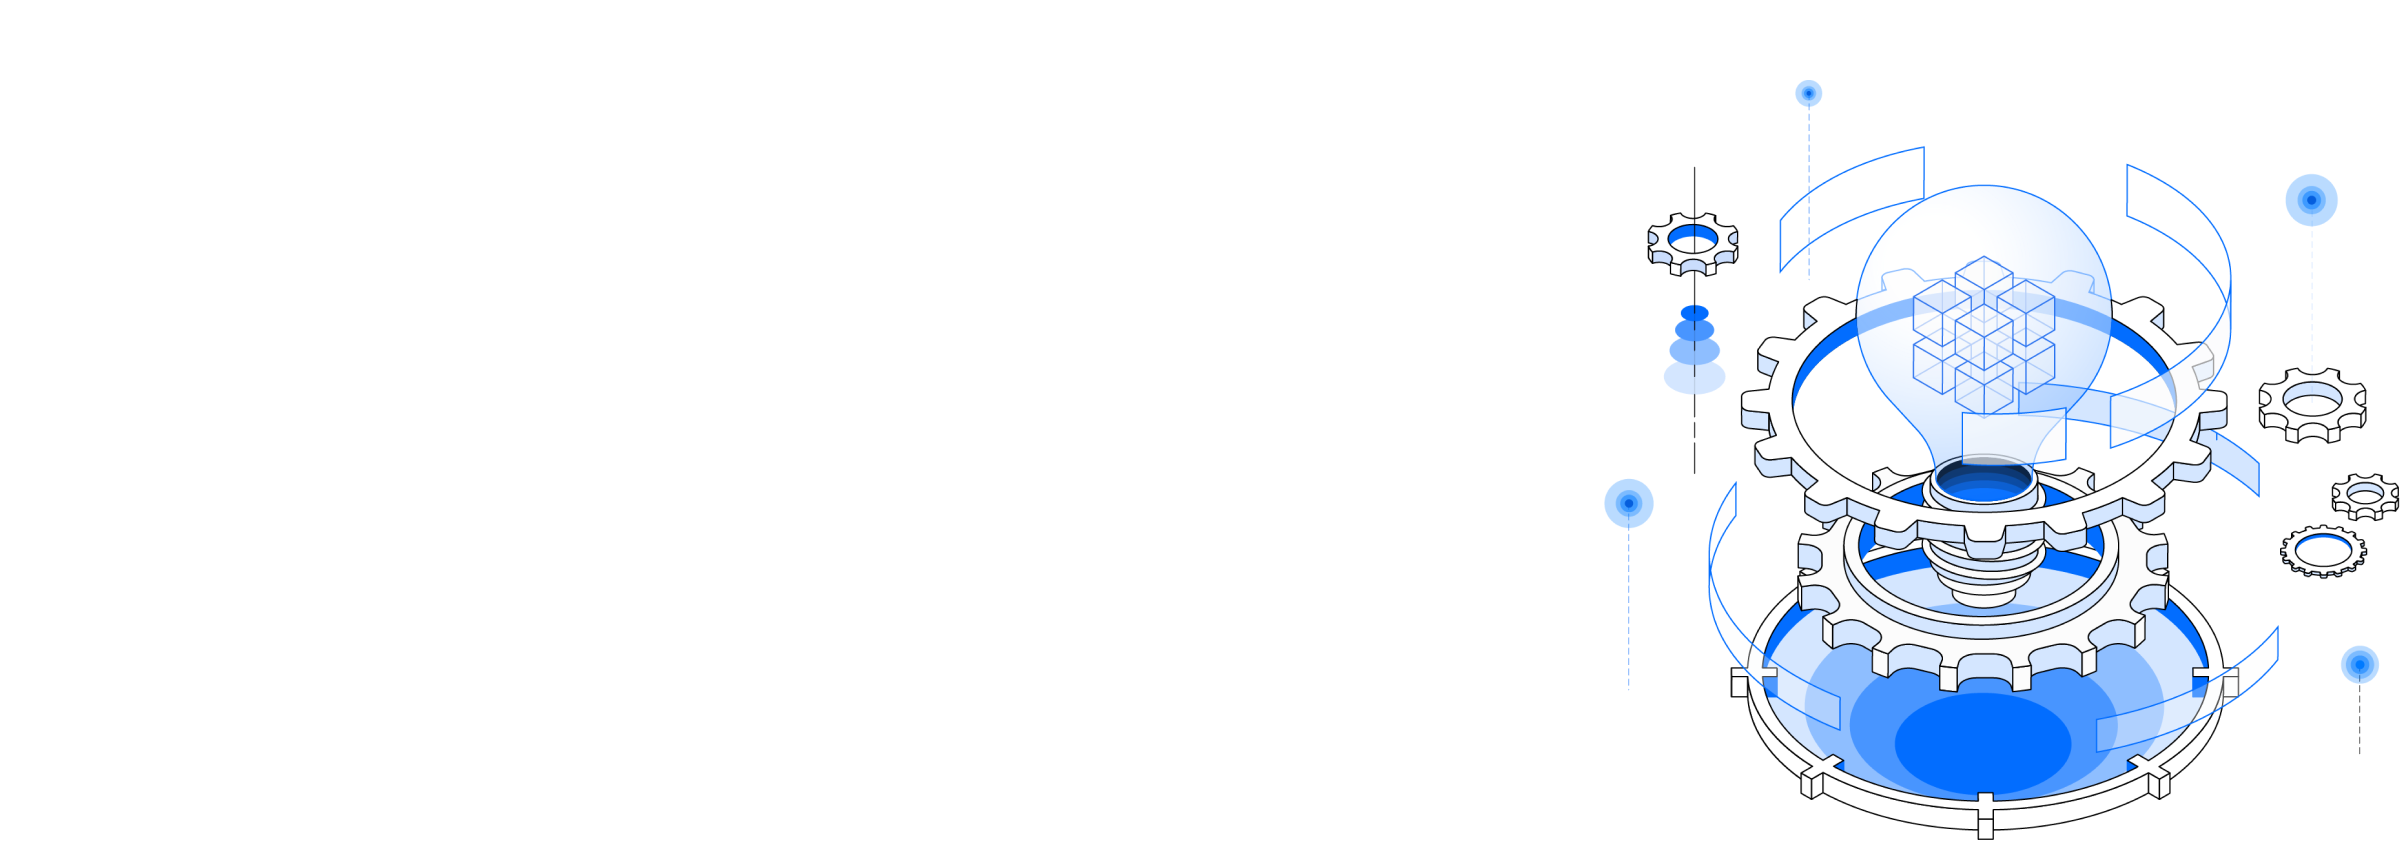
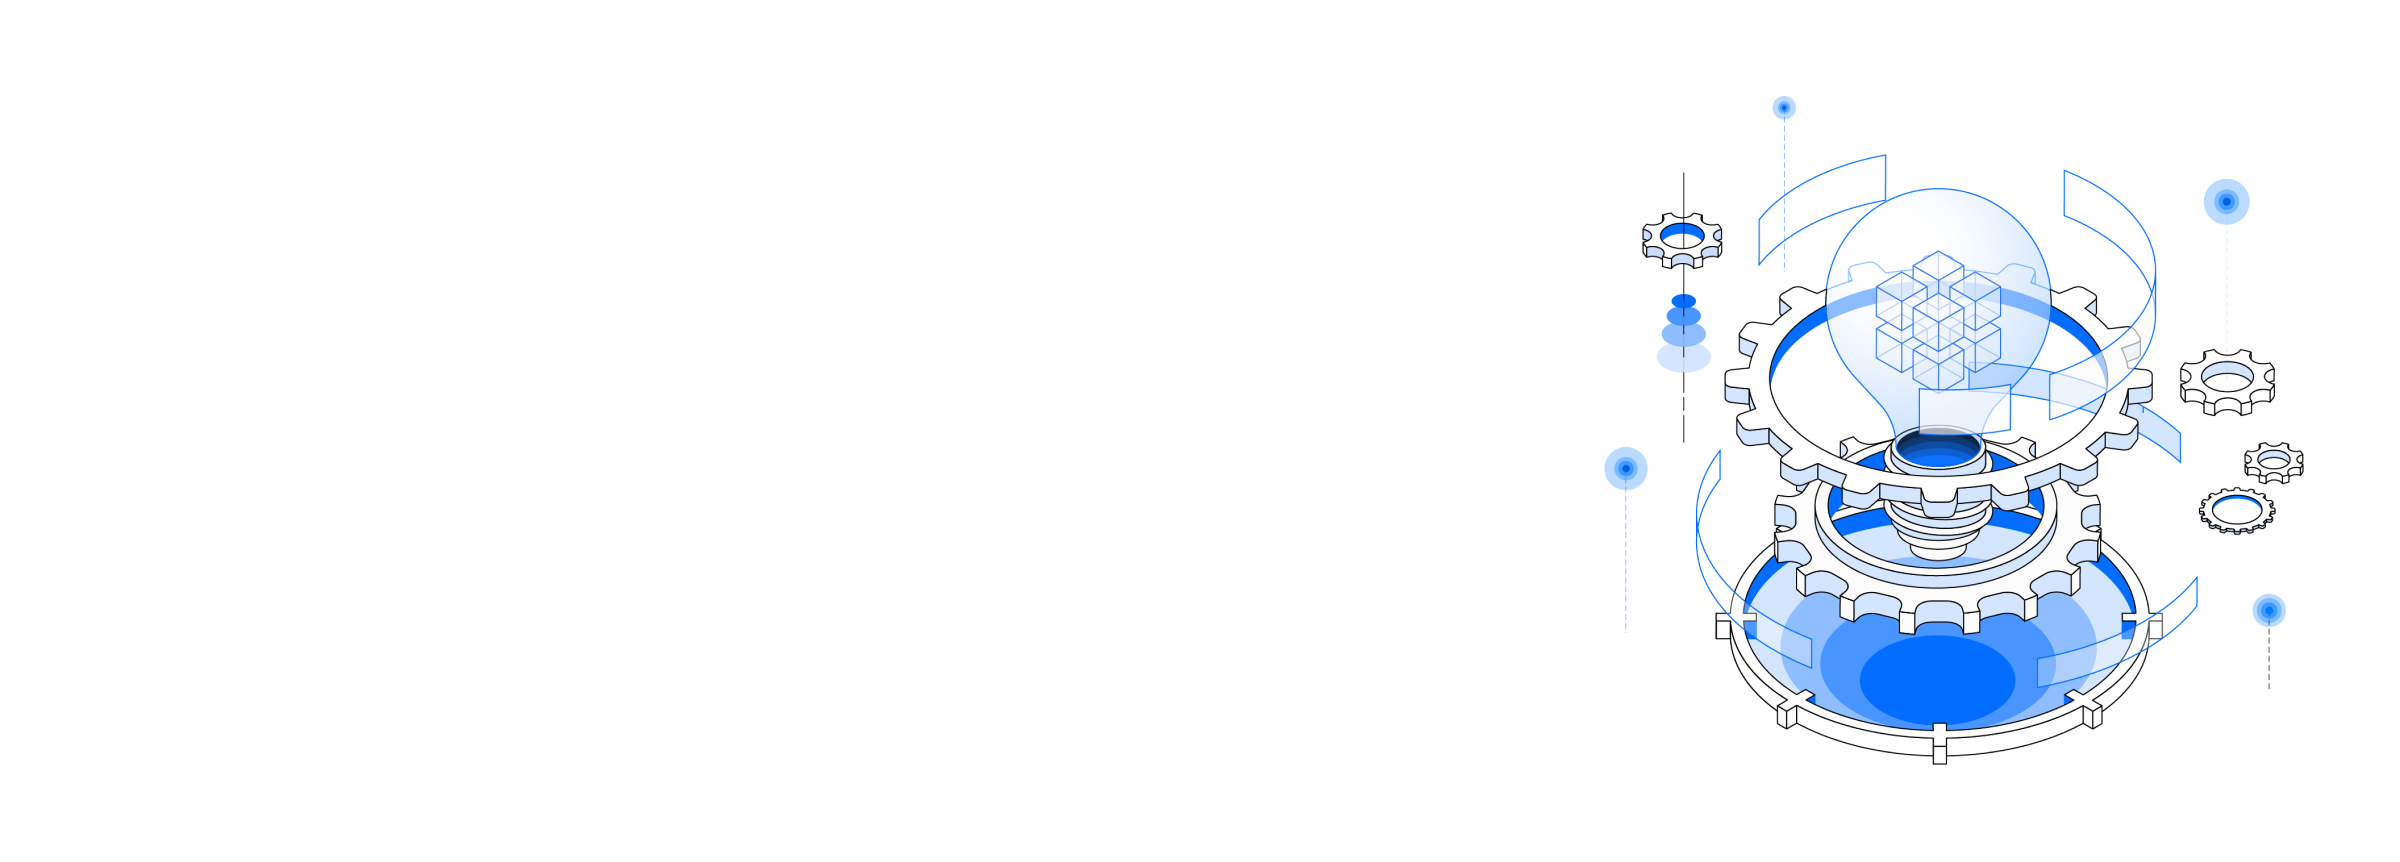
feat: 图片质量为80

diff --git a/pages/solution/constructionScheme.vue b/pages/solution/constructionScheme.vue
@@ -1,6 +1,6 @@
 <script setup>
 useSeoMeta({
-  title: '建设方案',
+  title: 'CDSL-YAK：企业安全建设解决方案',
   description: '以YAK语言为核心，聚焦网络安全底层，致力于安全融合，助力企业网络安全体系建设。',
 })
 </script>
@@ -10,10 +10,10 @@ useSeoMeta({
     <!-- 建设方案 banner -->
     <div class="relative h-[560px] bg-[#DEEEFD]">
       <div class="bottom-left-bg absolute left-[0] top-[0]">
-        <NuxtImg src="/Images/light-bg-left.png" alt="" class="h-[560px]" />
+        <NuxtImg src="/Images/light-bg-left.png" class="h-[560px]" />
       </div>
       <div class="bottom-right-bg absolute right-[0] top-[0]">
-        <NuxtImg src="/Images/light-bg-right.png" alt="" class="h-[560px]" />
+        <NuxtImg src="/Images/light-bg-right.png" class="h-[560px]" />
       </div>
       <div
         class="constructionScheme-banner-cont relative wjaq-container mx-auto h-[100%] flex justify-center items-center">
@@ -151,11 +151,11 @@ useSeoMeta({
       <!-- 实现企业安全工具的统一管理 -->
       <div class="flex justify-between items-center px-[10px] mb-[195px]">
         <div data-aos="fade-right">
-          <NuxtImg src="/Images/constructionScheme-tools.png" alt="" class="aqgj-img h-[314px]" />
+          <NuxtImg src="/Images/constructionScheme-tools.png" class="aqgj-img h-[314px]" />
         </div>
         <div data-aos="fade-left" class="w-[565px]">
           <div class="text-[32px] font-bold-600 mb-[16px]">实现企业安全工具的统一管理</div>
-          <div class="color-[#646363] text-[18px] mb-[38px] leading-[32px]">构建企业渗透测试全流程工具并进行统一管理，工具原生协同，迅速拉平企业内部安全人员的 “硬件”
+          <div class="color-[#646363] text-[18px] mb-[38px] leading-[30px]">构建企业渗透测试全流程工具并进行统一管理，工具原生协同，迅速拉平企业内部安全人员的 “硬件”
             水平。</div>
           <div class="mb-[50px]">
             <div class="text-[18px] font-bold-600 mb-[15px]">全流程工具包括</div>
@@ -228,17 +228,17 @@ useSeoMeta({
           </div>
         </div>
         <div data-aos="fade-left">
-          <NuxtImg src="/Images/constructionScheme-xiezuo.png" alt="" class="aqtdgl-img h-[408px]" />
+          <NuxtImg src="/Images/constructionScheme-xiezuo.png" class="aqtdgl-img h-[408px]" />
         </div>
       </div>
       <!-- 针对新漏洞的快速响应 -->
       <div class="flex justify-between items-center px-[10px] mb-[195px]">
         <div data-aos="fade-right">
-          <NuxtImg src="/Images/constructionScheme-bugxy.png" alt="" class="ldksxy-img h-[470px]" />
+          <NuxtImg src="/Images/constructionScheme-bugxy.png" class="ldksxy-img h-[470px]" />
         </div>
         <div data-aos="fade-left" class="w-[450px]">
           <div class="text-[32px] font-bold-600 mb-[16px]">针对新漏洞的快速响应</div>
-          <div class="color-[#646363] text-[18px] mb-[38px] leading-[32px]">针对网络空间新发现的漏洞，快速提供针对性的检测插件，按照影响程度进行分级响应。</div>
+          <div class="color-[#646363] text-[18px] mb-[38px] leading-[30px]">针对网络空间新发现的漏洞，快速提供针对性的检测插件，按照影响程度进行分级响应。</div>
           <div class="text-[16px]">
             <div class="flex items-center mb-[25px]">
               <svg class="w-[30px] h-[30px]" xmlns="http://www.w3.org/2000/svg" viewBox="0 0 30 30" fill="none">
@@ -271,22 +271,25 @@ useSeoMeta({
       <div class="flex justify-between items-center px-[10px] mb-[195px]">
         <div data-aos="fade-right" class="w-[510px]">
           <div class="text-[32px] font-bold-600 mb-[16px]">Yakit 产品部署方案</div>
-          <div class="color-[#646363] text-[18px] mb-[38px] leading-[32px]">基于 Yaklang 的低代码平台，融合“图灵完备”低代码 +
+          <div class="color-[#646363] text-[18px] mb-[38px] leading-[30px]">基于 Yaklang 的低代码平台，融合“图灵完备”低代码 +
             安全体系，针对企业部署需求提供不同的产品部署解决方案，极致降低安全运营成本。</div>
           <div class="mb-[50px]">
             <div class="text-[18px] font-bold-600 mb-[15px]">分布式引擎 SaaS 化部署</div>
             <div class="text-[16px] color-[#0070FF]">
               <div class="flex items-center mb-[10px]">
-                <svg class="w-[6px] h-[6px]" xmlns="http://www.w3.org/2000/svg" viewBox="0 0 6 6" fill="none">
-                  <circle cx="3" cy="3" r="2.5" stroke="#0070FF" />
-                </svg>
-                <span class="ml-[5px]">针对公网业务系统可以直接注册账号使用，用户无需购买，安装或维护任何软、硬件。</span>
+                <span class="leading-[30px]">
+                  <svg class="w-[6px] h-[6px] mr-[5px] mb-[2px]" xmlns="http://www.w3.org/2000/svg" viewBox="0 0 6 6"
+                    fill="none">
+                    <circle cx="3" cy="3" r="2.5" stroke="#0070FF" />
+                  </svg>
+                  针对公网业务系统可以直接注册账号使用，用户无需购买，安装或维护任何软、硬件。
+                </span>
               </div>
               <div class="flex items-center">
-                <svg class="w-[6px] h-[6px]" xmlns="http://www.w3.org/2000/svg" viewBox="0 0 6 6" fill="none">
-                  <circle cx="3" cy="3" r="2.5" stroke="#0070FF" />
-                </svg>
-                <span class="ml-[5px]">分布式调度 Yaklang 引擎，快速实现组织内任务的分发和管理。</span>
+                <span class="leading-[30px]"><svg class="w-[6px] h-[6px] mr-[5px] mb-[2px]"
+                    xmlns="http://www.w3.org/2000/svg" viewBox="0 0 6 6" fill="none">
+                    <circle cx="3" cy="3" r="2.5" stroke="#0070FF" />
+                  </svg>分布式调度 Yaklang 引擎，快速实现组织内任务的分发和管理。</span>
               </div>
             </div>
           </div>
@@ -294,39 +297,39 @@ useSeoMeta({
             <div class="text-[18px] font-bold-600 mb-[15px]">私有化部署</div>
             <div class="text-[16px] color-[#0070FF]">
               <div class="flex items-center mb-[10px]">
-                <svg class="w-[6px] h-[6px]" xmlns="http://www.w3.org/2000/svg" viewBox="0 0 6 6" fill="none">
-                  <circle cx="3" cy="3" r="2.5" stroke="#0070FF" />
-                </svg>
-                <span class="ml-[5px]">针对内网业务系统可以在内网直接部署 Yakit 服务器，配置安装后即可上线使用。</span>
+                <span class="leading-[30px]"><svg class="w-[6px] h-[6px] mr-[5px] mb-[2px]"
+                    xmlns="http://www.w3.org/2000/svg" viewBox="0 0 6 6" fill="none">
+                    <circle cx="3" cy="3" r="2.5" stroke="#0070FF" />
+                  </svg>针对内网业务系统可以在内网直接部署 Yakit 服务器，配置安装后即可上线使用。</span>
               </div>
               <div class="flex items-center">
-                <svg class="w-[6px] h-[6px]" xmlns="http://www.w3.org/2000/svg" viewBox="0 0 6 6" fill="none">
-                  <circle cx="3" cy="3" r="2.5" stroke="#0070FF" />
-                </svg>
-                <span class="ml-[5px]">持续“快速灵活低成本”挂载更多低代码服务和应用。</span>
+                <span><svg class="w-[6px] h-[6px] mr-[5px] mb-[2px]" xmlns="http://www.w3.org/2000/svg" viewBox="0 0 6 6"
+                    fill="none">
+                    <circle cx="3" cy="3" r="2.5" stroke="#0070FF" />
+                  </svg>持续“快速灵活低成本”挂载更多低代码服务和应用。</span>
               </div>
             </div>
           </div>
         </div>
         <div data-aos="fade-left">
-          <NuxtImg src="/Images/constructionScheme-bushu.png" alt="" class="bsfa-img h-[452px]" />
+          <NuxtImg src="/Images/constructionScheme-bushu.png" class="bsfa-img h-[452px]" />
         </div>
       </div>
       <!-- 企业专属定制化服务和合作 -->
       <div class="flex justify-between items-center px-[10px] mb-[195px]">
         <div data-aos="fade-right">
-          <NuxtImg src="/Images/constructionScheme-dz.png" alt="" class="dzfu-img w-[460px]" />
+          <NuxtImg src="/Images/constructionScheme-dz.png" class="dzfu-img w-[460px]" />
         </div>
         <div data-aos="fade-left" class="w-[460px]">
           <div class="text-[32px] font-bold-600 mb-[16px]">企业专属定制化服务和合作</div>
-          <div class="color-[#646363] text-[18px] mb-[38px] leading-[32px]">针对企业级用户的个性化定制需求，打造贴合企业业务真实场景的服务方案。</div>
+          <div class="color-[#646363] text-[18px] mb-[38px] leading-[30px]">针对企业级用户的个性化定制需求，打造贴合企业业务真实场景的服务方案。</div>
           <div class="mb-[50px]">
             <div class="text-[18px] font-bold mb-[15px]">定制化服务</div>
-            <div class="text-[16px] color-[#999EA8] leading-[32px]">如果您的安全团队在日常检测工作中有其他难题或者需求，我们可以提供定制服务。</div>
+            <div class="text-[16px] color-[#999EA8] leading-[30px]">如果您的安全团队在日常检测工作中有其他难题或者需求，我们可以提供定制服务。</div>
           </div>
           <div class="mb-[50px]">
             <div class="text-[18px] font-bold mb-[15px]">企业合作</div>
-            <div class="text-[16px] color-[#999EA8] leading-[32px]">如果您的团队有基于 Yak 的课题工程转化或者科研课题探讨的想法，欢迎<span
+            <div class="text-[16px] color-[#999EA8] leading-[30px]">如果您的团队有基于 Yak 的课题工程转化或者科研课题探讨的想法，欢迎<span
                 class="color-[#0070FF]">联系我们</span>。</div>
           </div>
         </div>
@@ -569,10 +572,10 @@ useSeoMeta({
         </div>
       </div>
       <div class="absolute top-[0] left-[0]">
-        <NuxtImg src="/Images/constructionScheme-l-circle.png" alt="" class="w-[418px]" />
+        <NuxtImg src="/Images/constructionScheme-l-circle.png" class="w-[418px]" />
       </div>
       <div class="absolute bottom-[0] right-[0]">
-        <NuxtImg src="/Images/constructionScheme-r-circle.png" alt="" class="w-[418px]" />
+        <NuxtImg src="/Images/constructionScheme-r-circle.png" class="w-[418px]" />
       </div>
     </div>
   </div>

diff --git a/pages/safetyProduct/xiaozhi.vue b/pages/safetyProduct/xiaozhi.vue
@@ -16,10 +16,10 @@ const coreTechnologyList = ref([
     <!-- 小智 banner -->
     <div class="relative h-[560px] bg-[#DEEEFD]">
       <div class="bottom-left-bg absolute left-[0] top-[0]">
-        <NuxtImg src="/Images/light-bg-left.png" alt="" class="h-[560px]" />
+        <NuxtImg src="/Images/light-bg-left.png" class="h-[560px]" />
       </div>
       <div class="bottom-right-bg absolute right-[0] top-[0]">
-        <NuxtImg src="/Images/light-bg-right.png" alt="" class="h-[560px]" />
+        <NuxtImg src="/Images/light-bg-right.png" class="h-[560px]" />
       </div>
       <div class="xiaozhi-banner-cont relative wjaq-container mx-auto h-[100%] flex justify-center items-center">
         <div class="text-center">
@@ -157,13 +157,13 @@ const coreTechnologyList = ref([
             <div class="text-[25px] text-center font-bold-600 mb-[20px]">网络场景信息的智能认知</div>
             <div class="text-[16px] mb-[110px] color-[#646363] leading-[35px]">
               基于漏洞情报知识图谱，对网络场景中的各种信息元素进行统一管理，并运用知识推理技术对场景元素进行扩展和悖论校正，完成对网络场景的智能认知。</div>
-            <div class="text-center"><NuxtImg src="/Images/xiaozhi-set.png" alt="" class="znrz-img h-[300px]" /></div>
+            <div class="text-center"><NuxtImg src="/Images/xiaozhi-set.png" class="znrz-img h-[300px]" /></div>
           </div>
           <div class="jczh-wrap w-[480px]">
             <div class="text-[25px] text-center font-bold-600 mb-[20px]">任务流程的复杂逻辑决策执行</div>
             <div class="text-[16px] mb-[110px] color-[#646363] leading-[35px]">
               依托于知识图谱的知识推理技术，联合其他智能体，实现高阶谓词逻辑的智能化决策技术。</div>
-            <div class="text-center"><NuxtImg src="/Images/xiaozhi-ai.png" alt="" class="jczh-img h-[320px]" /></div>
+            <div class="text-center"><NuxtImg src="/Images/xiaozhi-ai.png" class="jczh-img h-[320px]" /></div>
           </div>
         </div>
       </div>
@@ -184,7 +184,7 @@ const coreTechnologyList = ref([
         </div>
         <div class="flex justify-between items-center mb-[100px]" v-for="(item, index) in coreTechnologyList"
           :key="index">
-          <div class="mr-[88px]"><NuxtImg :src="item.imgUrl" alt="" class="h-[150px]" /></div>
+          <div class="mr-[88px]"><NuxtImg :src="item.imgUrl" class="h-[150px]" /></div>
           <div>
             <div class="mb-[15px] text-[24px] font-bold-600">{{ item.title }}</div>
             <div class="text-[18px] color-[#646363] leading-[35px]">

diff --git a/pages/safetyProduct/qjLargeModel.vue b/pages/safetyProduct/qjLargeModel.vue
@@ -2,7 +2,7 @@
 </script>
 
 <template>
-  <Title>万径千机—知识增强网络安全大模型应用</Title>
+  <Title>千机—知识增强网络安全大模型应用</Title>
   <div class="mt-[86px]">
     <!-- 万径千机 banner -->
     <div class="relative h-[411px] bg-[#DEEEFD]">
@@ -76,18 +76,18 @@
           <!-- 漏洞情报 -->
           <div class="flex justify-between items-center px-[10px] mb-[100px]">
             <div data-aos="fade-right">
-              <NuxtImg src="/Images/qj_ldqb.png" alt="" class="h-[421px]" />
+              <NuxtImg src="/Images/qj_ldqb.png" class="h-[421px]" />
             </div>
             <div data-aos="fade-left" class="w-[520px]">
               <div class="text-[32px] font-bold-600 mb-[20px]">漏洞情报</div>
-              <div class="text-[18px] font-bold-600 mb-[16px]">外文漏洞译制</div>
+              <div class="text-[18px] font-bold-600 mb-[18px]">外文漏洞译制</div>
               <div class="text-[16px] mb-[37px] leading-[30px]">情报源涵盖CVE、Github、EXploitDB、社区文章等。可读性已与人类安全专家译制效果无任何差异。</div>
-              <div class="text-[18px] font-bold-600 mb-[16px]">漏洞情报问答</div>
-              <div class="text-[16px] font-bold-600 mb-[16px]">CVE漏洞情报</div>
-              <div class="text-[16px] color-[#646363] mb-[25px] leading-[30px]">
+              <div class="text-[18px] font-bold-600 mb-[18px]">漏洞情报问答</div>
+              <div class="text-[16px] font-bold-600 mb-[12px]">CVE漏洞情报</div>
+              <div class="text-[16px] color-[#646363] mb-[20px] leading-[30px]">
                 对于特定漏洞的回答正确率高达92.1%（测试集验证结果），并能够在多轮人机交互过程中提供更详细更有价值的漏洞情报，且可解释性与稳定性很高。
               </div>
-              <div class="text-[16px] font-bold-600 mb-[16px]">通用漏洞情报</div>
+              <div class="text-[16px] font-bold-600 mb-[12px]">通用漏洞情报</div>
               <div class="text-[16px] color-[#646363] leading-[30px]">对于安全场景中的通用知识掌握，万径千机水平已趋近中高级安全专家，并随着不断的训练与优化，其能力还将得到更多涌现。</div>
             </div>
           </div>
@@ -109,7 +109,7 @@
               </div>
             </div>
             <div data-aos="fade-left">
-              <NuxtImg src="/Images/qj_fzjc.png" alt="" class="w-[400px]" />
+              <NuxtImg src="/Images/qj_fzjc.png" class="w-[400px]" />
             </div>
           </div>
         </div>

diff --git a/pages/securityService.vue b/pages/securityService.vue
@@ -25,7 +25,7 @@
           </div>
         </div>
         <div class="securityService-banner-img">
-          <NuxtImg src="/Images/security-service.png" alt="" class="h-[520px]" />
+          <NuxtImg src="/Images/security-service.png" class="h-[520px]" />
         </div>
       </div>
     </div>
@@ -34,7 +34,7 @@
       <!-- 实现企业安全工具的统一管理 -->
       <div class="flex justify-between items-center px-[10px] mb-[195px]">
         <div data-aos="fade-right">
-          <NuxtImg src="/Images/securityService-stcs.png" alt="" class="h-[320px]" />
+          <NuxtImg src="/Images/securityService-stcs.png" class="h-[320px]" />
         </div>
         <div data-aos="fade-left" class="w-[650px]">
           <div class="text-[32px] font-bold-600 mb-[16px]">渗透测试</div>
@@ -71,13 +71,13 @@
             为企业提供常规应急响应支持服务的同时，还会对企业进行全面的内网渗透测试，并提出安全修复建议，降低安全事件发生的概率。</div>
         </div>
         <div data-aos="fade-left">
-          <NuxtImg src="/Images/securityService-xy.png" alt="" class="h-[250px]" />
+          <NuxtImg src="/Images/securityService-xy.png" class="h-[250px]" />
         </div>
       </div>
       <!-- 代码审计 -->
       <div class="flex justify-between items-center px-[10px] mb-[195px]">
         <div data-aos="fade-right">
-          <NuxtImg src="/Images/securityService-codesj.png" alt="" class="h-[250px]" />
+          <NuxtImg src="/Images/securityService-codesj.png" class="h-[250px]" />
         </div>
         <div data-aos="fade-left" class="w-[600px]">
           <div class="text-[32px] font-bold-600 mb-[16px]">代码审计</div>
@@ -137,7 +137,7 @@
           </div>
         </div>
         <div data-aos="fade-left">
-          <NuxtImg src="/Images/securityService-fwpx.png" alt="" class="h-[224px]" />
+          <NuxtImg src="/Images/securityService-fwpx.png" class="h-[224px]" />
         </div>
       </div>
     </div>

diff --git a/pages/aboutUs.vue b/pages/aboutUs.vue
@@ -880,19 +880,19 @@
     <!-- 二维码-->
     <div class="relative h-[409px] bg-[#E4F3FF]">
       <div class="bottom-left-bg absolute left-[0] top-[0]">
-        <NuxtImg src="/Images/light-bg-left.png" alt="" class="h-[409px]" />
+        <NuxtImg src="/Images/light-bg-left.png" class="h-[409px]" />
       </div>
       <div class="bottom-right-bg absolute right-[0] top-[0]">
-        <NuxtImg src="/Images/light-bg-right.png" alt="" class="h-[409px]" />
+        <NuxtImg src="/Images/light-bg-right.png" class="h-[409px]" />
       </div>
       <div class="relative wjaq-container mx-auto h-[100%]">
         <div class="absolute left-[50%] top-[-110px] translate-x-[-50%] flex">
           <div class="flex flex-col items-center mr-[50px]">
-            <NuxtImg src="/Images/wanjing-code.png" alt="" class="w-[170px]" />
+            <NuxtImg src="/Images/wanjing-code.png" class="w-[170px]" />
             <div class="text-[18px] mr-[10px] mt-[-10px]">万径安全公众号</div>
           </div>
           <div class="flex flex-col items-center ml-[50px]">
-            <NuxtImg src="/Images/yakit-code.png" alt="" class="w-[170px]" />
+            <NuxtImg src="/Images/yakit-code.png" class="w-[170px]" />
             <div class="text-[18px] mr-[20px] mt-[-10px]">Yak Project公众号</div>
           </div>
         </div>

diff --git a/pages/index.vue b/pages/index.vue
@@ -361,10 +361,10 @@ const newBannerBottomList = computed(() => {
     <!-- 底部轮播 -->
     <div class="bottom-swiper-wrap relative overflow-hidden h-[500px] bg-[#1E83FF]">
       <div class="bottom-left-bg absolute left-[0] top-[0]">
-        <NuxtImg src="/Images/bottom-banner-left-bg.png" alt="" class="h-[500px]" />
+        <NuxtImg src="/Images/bottom-banner-left-bg.png" class="h-[500px]" />
       </div>
       <div class="bottom-right-bg absolute right-[0] top-[0]">
-        <NuxtImg src="/Images/bottom-banner-right-bg.png" alt="" class="h-[500px]" />
+        <NuxtImg src="/Images/bottom-banner-right-bg.png" class="h-[500px]" />
       </div>
       <div class="wjaq-container mx-auto h-[100%] font-bold overflow-hidden bg-[#1E83FF]">
         <div class="text-[40px] text-center text-[#fff] my-[70px]">他们也选择万径</div>

diff --git a/nuxt.config.ts b/nuxt.config.ts
@@ -11,7 +11,7 @@ export default defineNuxtConfig({
           content:
             "width=device-width, initial-scale=1.0, maximum-scale=1.0, user-scalable=no",
         },
-        { name: "keywords", content: "安全能力融合、CDSL-YAK、小智、Yakit" },
+        { name: "keywords", content: "安全能力融合、CDSL-YAK、小智、Yakit、千机（ChatCS）" },
         {
           hid: "description",
           name: "description",
@@ -34,7 +34,7 @@ export default defineNuxtConfig({
     "@nuxt/image",
   ],
   image: {
-    
+    quality: 80,
   },
   // vueuse
   vueuse: {

diff --git a/components/Megavector/Header/index.vue b/components/Megavector/Header/index.vue
@@ -67,7 +67,7 @@
       list-style: none;
 
       &:hover a {
-        font-weight: 600;
+        color: #000;
       }
     }
   }
